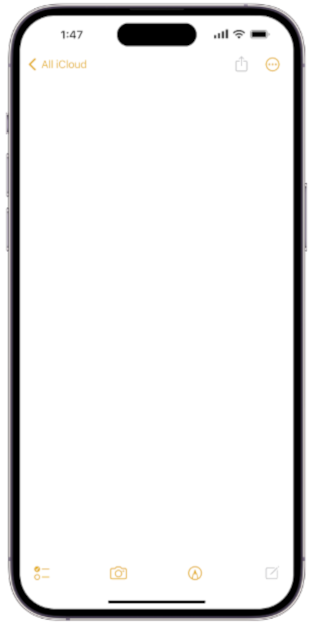
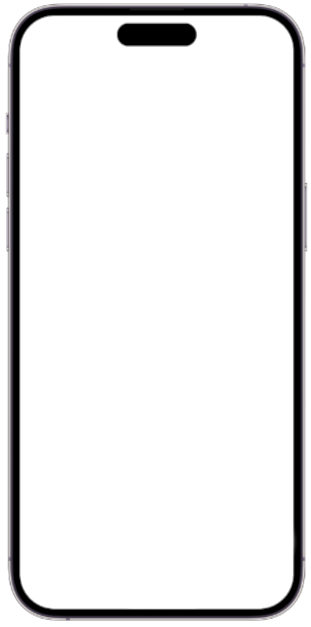
tela home

diff --git a/estilos/style.css b/estilos/style.css
@@ -1,24 +1,25 @@
 @charset "UTF-8";
 
-*{
+* {
     margin: 0px;
     padding: 0px;
     font-family: Arial, Helvetica, sans-serif;
     box-sizing: border-box;
 }
 
-body{
-    background: url(../imagens/fundo-03.jpg) no-repeat top center;
+html, body {
+    height: 100vh;
+    width: 100vw;
+    background: url(../imagens/fundo-03.jpg) no-repeat bottom center;
     background-size: cover;
     background-attachment: fixed;
+    overflow: hidden;
 }
 
-main{
-    display: flex;
-    justify-content: center;
-    align-items: center;
-    padding: 20px;
-    min-height: 100vh;
+main {
+    position: relative;
+    height: 100vh;
+    width: 100vw;
 }
 
 section#telefone {
@@ -26,11 +27,23 @@ section#telefone {
     top: 50%;
     left: 50%;
     transform: translate(-50%, -50%);
+
+    width: 320px;
+    height: 660px;
     
-    width: 311px;
-    height:627px;
+    background: url(../imagens/frame-celular.png) no-repeat center center;
+    background-size: contain;
+
+    max-height: 85vh !important;
+    max-width: 90vw !important;
+}
+
+iframe#tela {
+    position: absolute;
+    top: 12px;
+    left: 51px;
     
-    background: blue url(../imagens/frame-celular.png) no-repeat top center;
-    background-size: cover; 
-    background-attachment: fixed;
+    width: 220px;
+    height: 480px;
+    border-radius: 28px; 
 }

diff --git a/home.html b/home.html
@@ -1,0 +1,29 @@
+<!DOCTYPE html>
+<html lang="pt-br">
+<head>
+    <meta charset="UTF-8">
+    <meta name="viewport" content="width=device-width, initial-scale=1.0">
+    <title>Home</title>
+</head>
+<style>
+    *{
+        padding: 0px;
+        margin: 0px;
+        box-sizing: border-box;
+    }
+
+    html, body {
+        width: 100%;
+        height: 100%;
+        overflow: hidden;
+    }
+
+    body{
+        background: url(imagens/tela-home.jpg) no-repeat center center;
+        background-size: 100% 100%;
+    }
+</style>
+<body>
+    
+</body>
+</html>

diff --git a/index.html b/index.html
@@ -9,12 +9,8 @@
 </head>
 <body>
     <main>
-        <section id="telefone">
-            <img src="/imagens/frame-celular.png" alt="celular">
-        </section>
-
-        <section id="redesocial">
-
-        </section>
-    </main>
+    <section id="telefone">
+        <iframe src="home.html" frameborder="0" name="tela" id="tela"></iframe>
+    </section>
+</main>
 </body>
